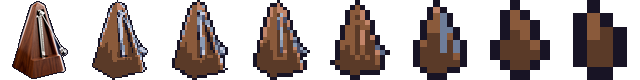
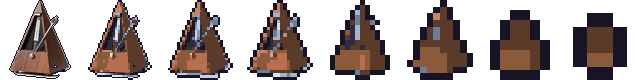
Photographs: swap in Qwen-Image neutral plates, keep thin parts in cut-outs
Cut-out adds back sharp thin detail (antennas, rods) connected to the object
and drops backdrop-coloured gaps; lower coverage threshold for 24-48 px stages.

Claude-Session: https://claude.ai/code/session_01NzGmmpSLVGw3z6oBv4gsMN

diff --git a/scripts/photos/build_photos.py b/scripts/photos/build_photos.py
@@ -64,6 +64,35 @@ def outline(rgba):
     return rgba
 
 
+def add_thin_parts(img, cut):
+    """The cut-out model drops thin parts (antennas, wires, pendulum rods). Add back sharp detail
+    that touches the object: pixels that differ strongly from their blurred neighbourhood, kept only
+    if connected to the main cut-out. Soft shadows have no sharp edges, so they stay out."""
+    from scipy import ndimage
+    rgb = np.asarray(img).astype(float)
+    base = np.asarray(cut)[..., 3] > 128
+    blur = ndimage.gaussian_filter(rgb, (6, 6, 0))
+    hf = np.abs(rgb - blur).max(-1) > 14
+    hf = ndimage.binary_closing(hf, iterations=2)
+    cand = hf | base
+    lab_, _ = ndimage.label(cand)
+    keep = np.isin(lab_, np.unique(lab_[base]))
+    keep &= lab_ > 0
+    # drop anything that is just the backdrop showing through (gaps, fringes): close to the
+    # background colour estimated from the pixels around the object
+    w = (~base).astype(float)
+    bg = ndimage.gaussian_filter(rgb * w[..., None], (40, 40, 0)) / np.maximum(ndimage.gaussian_filter(w, 40), 1e-3)[..., None]
+    like_bg = np.abs(rgb - bg).max(-1) < 16
+    # ...but a thin dark line (wire, rod) on a light backdrop is real even when faint
+    like_bg &= ~(hf & (rgb.mean(-1) < bg.mean(-1) - 8))
+    m = (keep | base) & ~like_bg
+    m = ndimage.binary_opening(m, iterations=1) | (m & hf)
+    out = np.asarray(cut).copy()
+    out[..., :3] = np.asarray(img)
+    out[..., 3] = np.where(m, 255, 0)
+    return Image.fromarray(out, "RGBA")
+
+
 def stage(cut, n, final=False):
     inner = n - 2  # leave room for the outline
     im = cut.resize((inner, inner), Image.LANCZOS if final else Image.BOX)
@@ -73,12 +102,13 @@ def stage(cut, n, final=False):
         g = rgb.mean(-1, keepdims=True)
         rgb = np.clip(g + (rgb - g) * 1.2, 0, 255)
         k = 5 if n <= 8 else 8 if n <= 12 else 12 if n <= 24 else 16
-        mask = a > 127
+        mask = a > (28 if n >= 24 else 90)
         if mask.any():
             rgb[mask] = snap(rgb[mask][None], k)[0]
     out = np.zeros((n, n, 4), np.uint8)
     out[1:-1, 1:-1, :3] = rgb.astype(np.uint8)
-    out[1:-1, 1:-1, 3] = np.where(a > 127, 255, 0)
+    # a low threshold keeps thin parts (antennas, rods) from vanishing when shrunk
+    out[1:-1, 1:-1, 3] = np.where(a > (60 if final else 28 if n >= 24 else 90), 255, 0)
     return Image.fromarray(outline(out), "RGBA").resize((T, T), Image.NEAREST)
 
 
@@ -92,7 +122,7 @@ def main():
         if want and sid not in want:
             continue
         img = Image.open(f).convert("RGB")
-        cut = remove(img, session=sess)
+        cut = add_thin_parts(img, remove(img, session=sess))
         a = np.asarray(cut)[..., 3] > 128
         ys, xs = np.where(a)
         x0, x1, y0, y1 = np.percentile(xs, 0.3), np.percentile(xs, 99.7), np.percentile(ys, 0.3), np.percentile(ys, 99.7)
